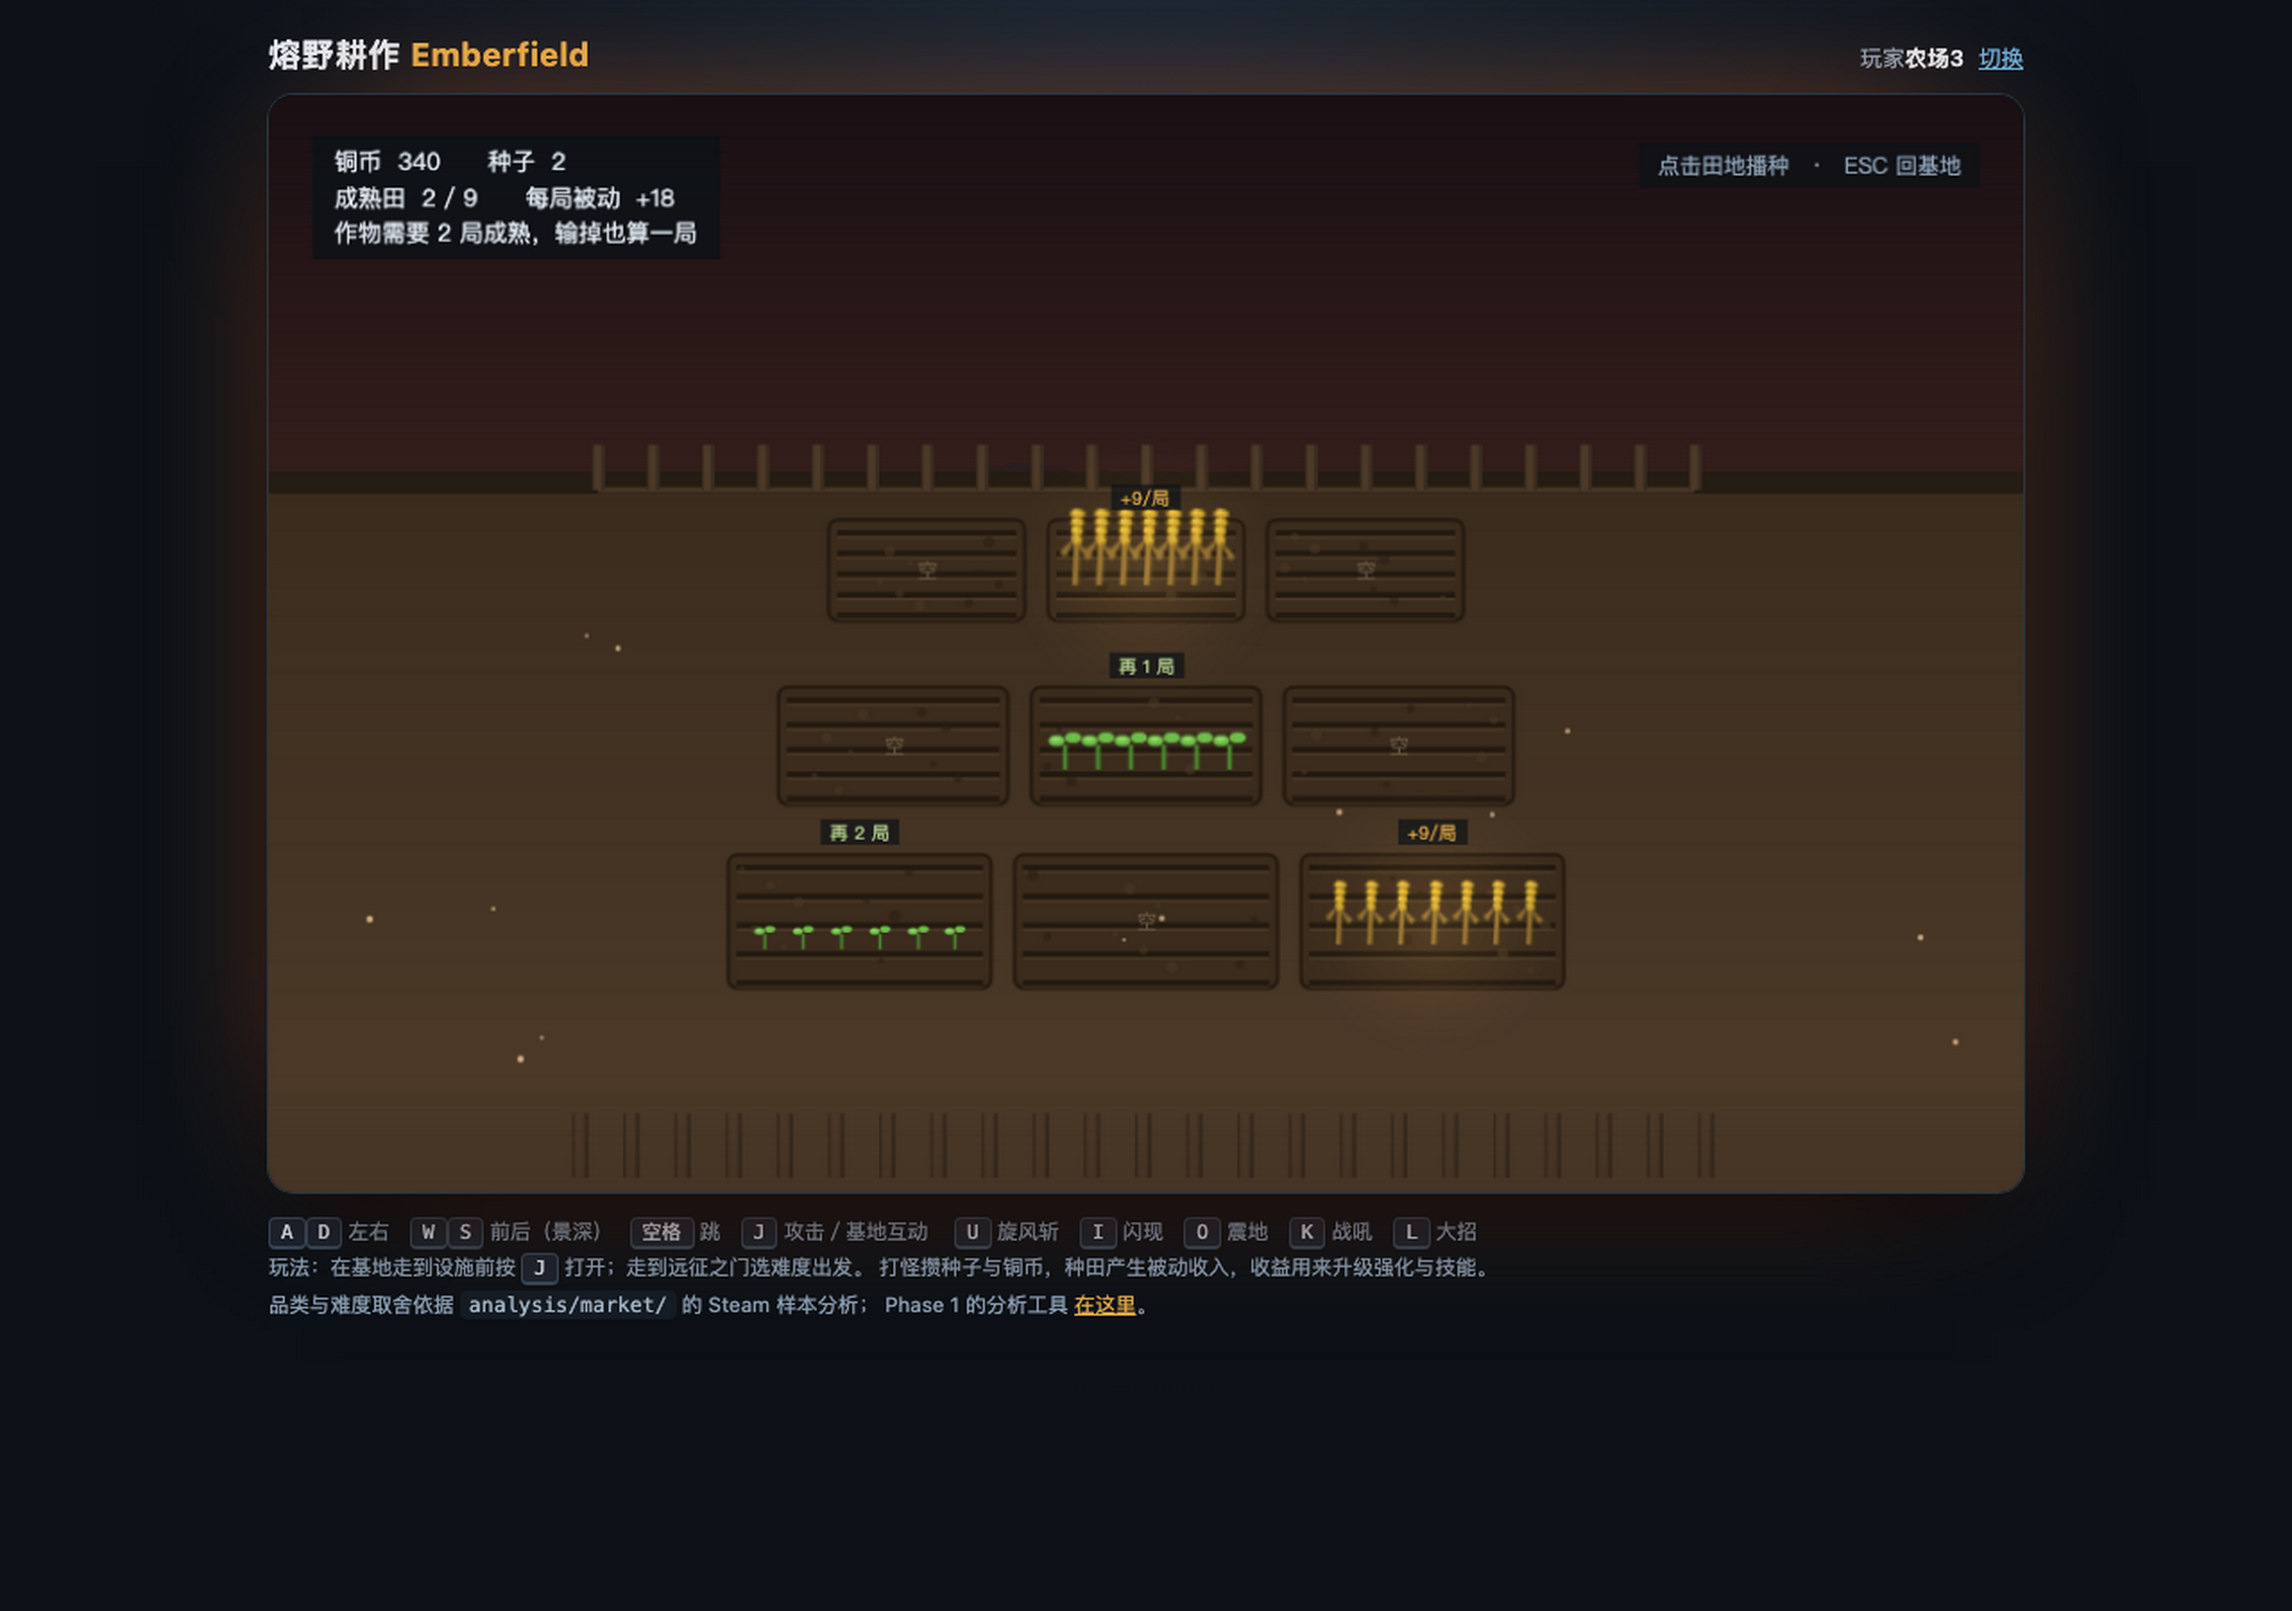
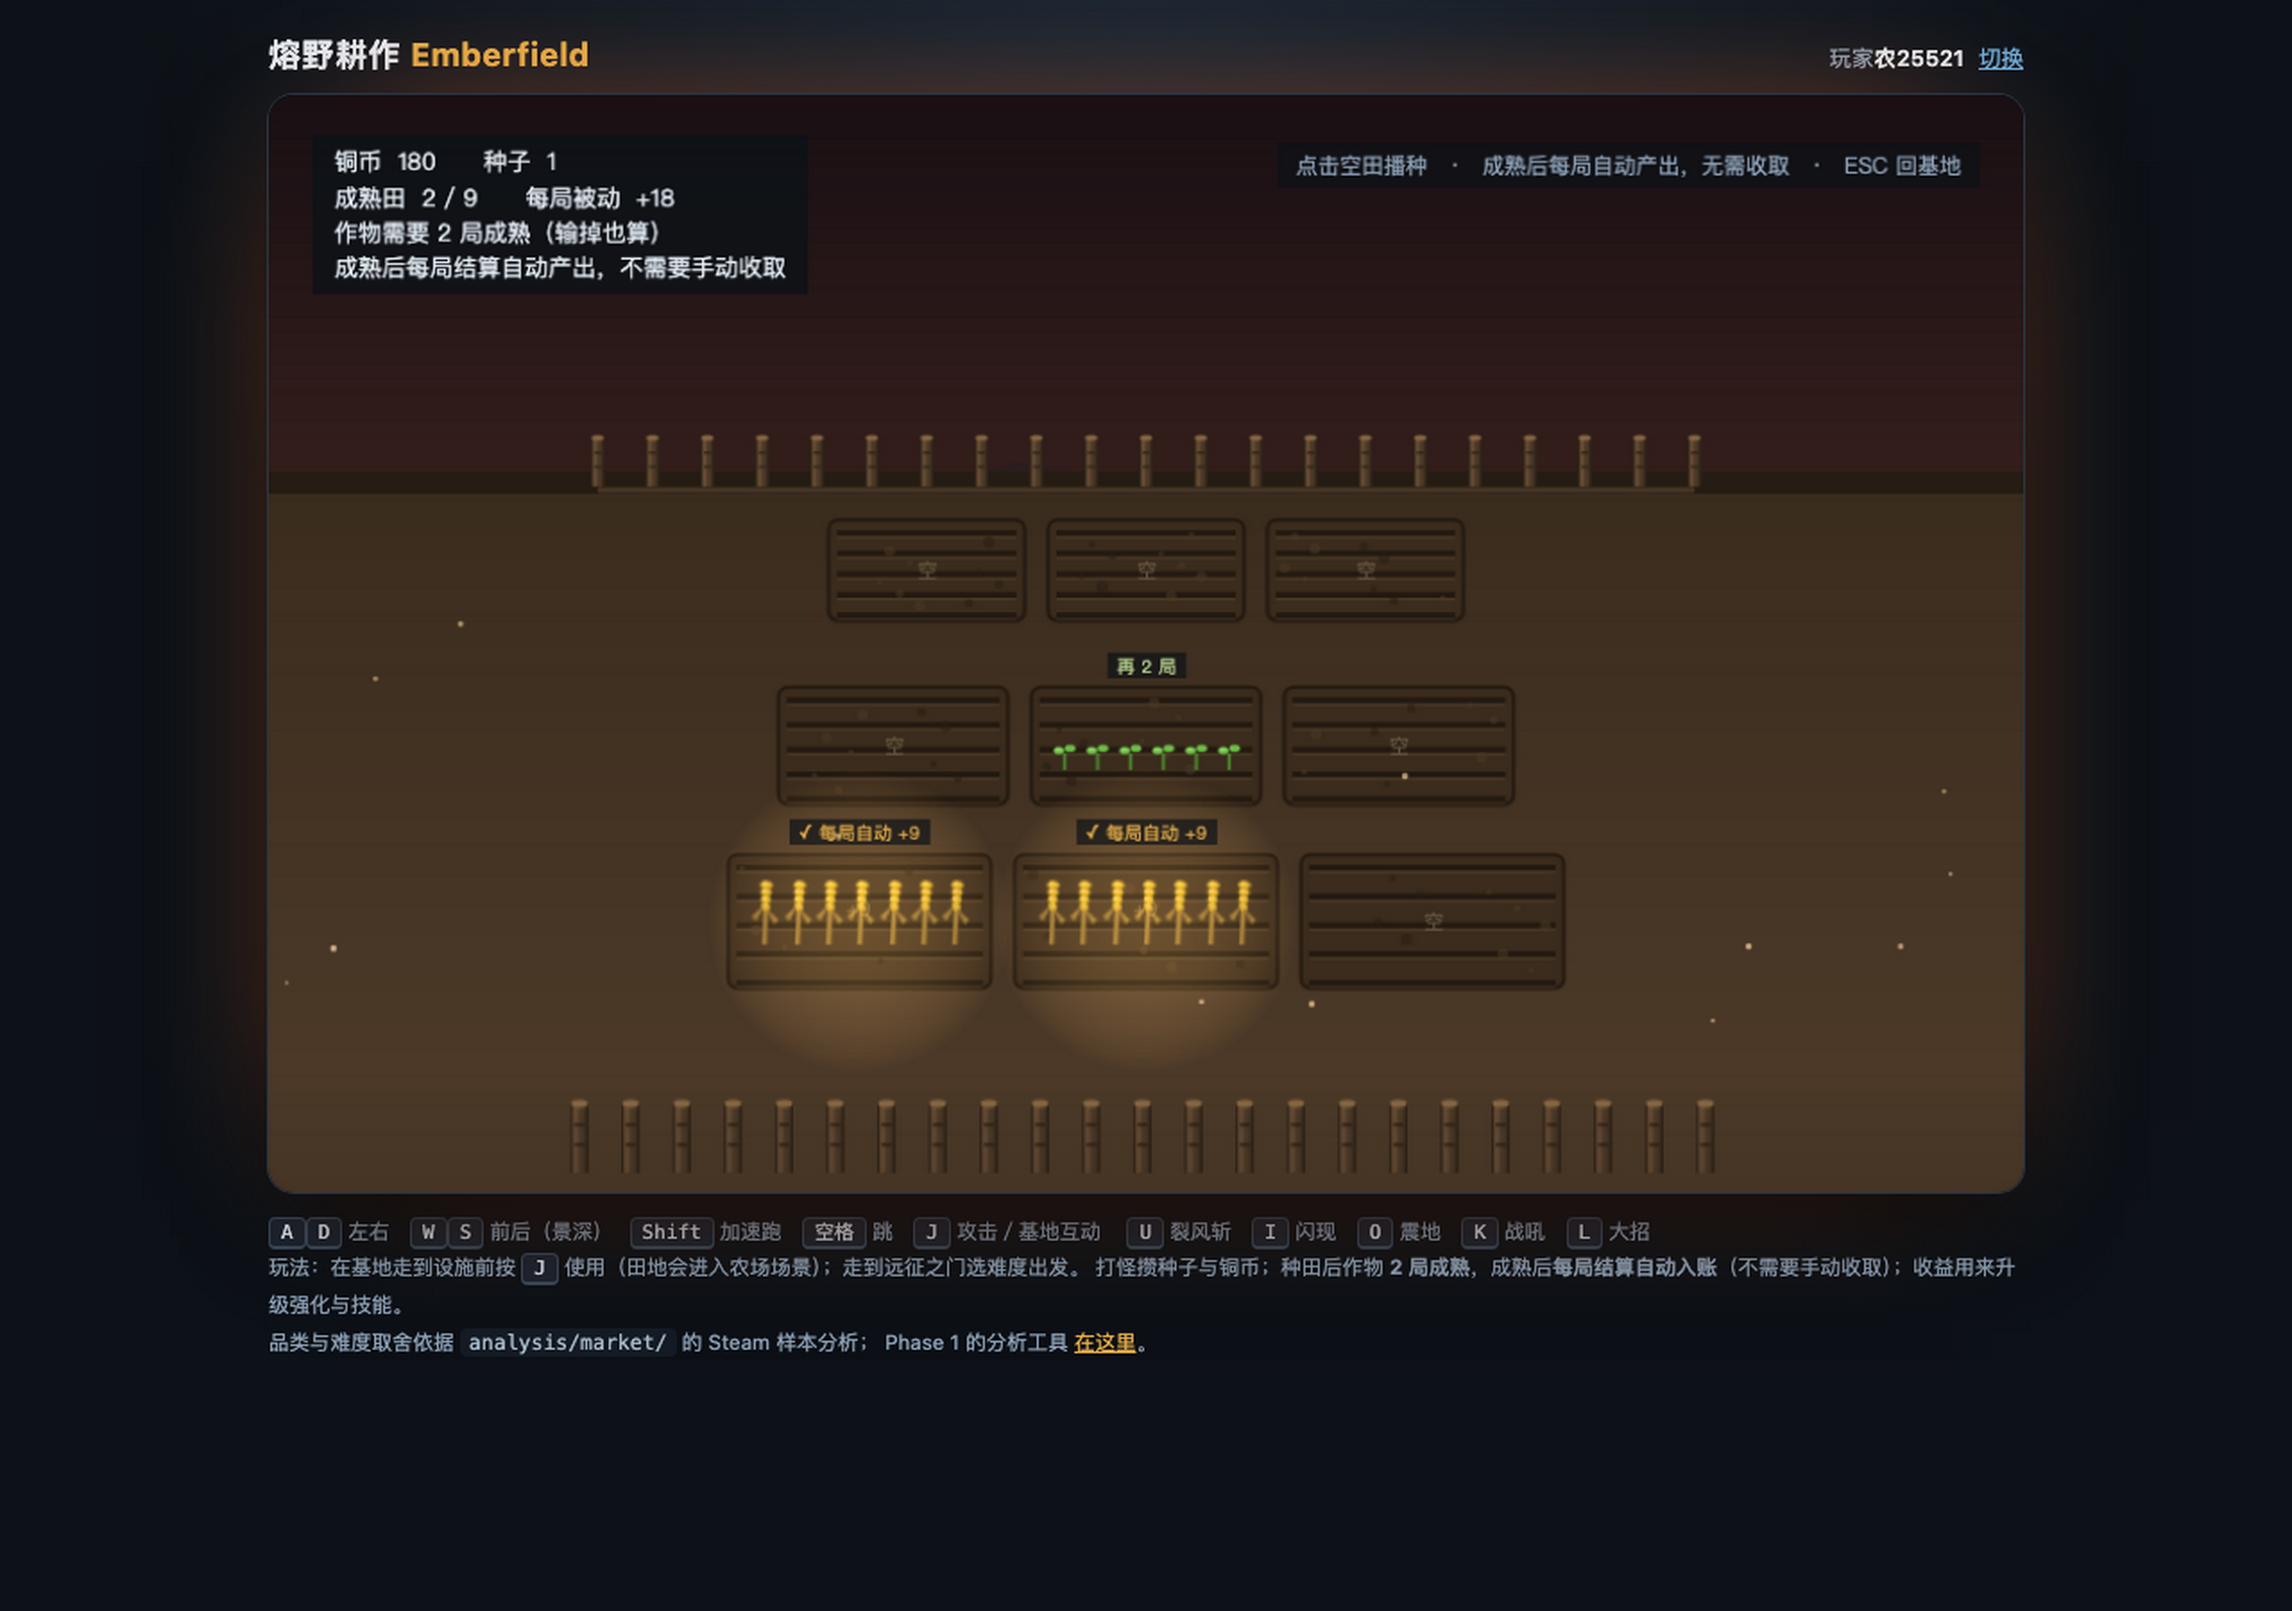
fix: mature crops looked unharvestable because nothing said they harvest themselves
Reported as 'the seed matured and now I cannot collect it'. Investigation first, and the
logic turned out to be correct: a mature plot pays yieldPerPlot coins at the end of every run
from endRun, and there is no collect step by design. What was broken was the interface.

Clicking a mature plot called plant(), which returned 'this plot is not empty', and that was
the only feedback the player got. Nothing on screen said when the money arrives, and the only
response to the obvious action implied a missing feature. The player was not wrong to think
something was missing.

Twenty assertions now lock the existing behaviour before any UI change, so the automatic
payout cannot be broken by fixing its presentation: maturity after two runs, payout at run end
without a collect call, payout proportional to plot count, and payout on a lost run as well.

The interface now says what happens:
- clicking a mature plot reports that it pays automatically each run and does not need
  collecting, instead of 'not empty';
- clicking a growing plot says how many runs remain;
- mature plots are labelled 'auto +9 each run' with a drifting coin figure above them;
- the farm header, the hub station hint and the page instructions all state that mature crops
  pay at settlement and need no collection.

A pulse ring on click makes the tap visible, because previously a click on a non-empty plot
produced no visual response at all, which is part of why it read as broken.

344 assertions across six checks.

diff --git a/game/app.js b/game/app.js
@@ -1313,7 +1313,7 @@
       }).setDepth(900);
       this.refreshHud();
 
-      this.add.text(W - 24, 26, '点击田地播种　·　ESC 回基地', {
+      this.add.text(W - 24, 26, '点击空田播种　·　成熟后每局自动产出，无需收取　·　ESC 回基地', {
         fontSize: '12px', color: '#8fa3b8', fontFamily: 'sans-serif',
         backgroundColor: '#0b1117aa', padding: { x: 10, y: 6 },
       }).setOrigin(1, 0).setDepth(900);
@@ -1405,12 +1405,24 @@
           const glow = this.add.image(geo.cx, geo.cy, 'glow')
             .setScale(1.5).setAlpha(0.34).setBlendMode(Phaser.BlendModes.ADD);
           this.cropLayer.add(glow);
+          // 标签写清是"自动"，并加一个金币小图标暗示入账
           const label = this.add.text(geo.cx, geo.cy - geo.h / 2 - 4,
-            '+' + C.FARM.yieldPerPlot + '/局', {
+            '✓ 每局自动 +' + C.FARM.yieldPerPlot, {
               fontSize: '10px', color: '#e8b04b', fontFamily: 'sans-serif',
               backgroundColor: '#0b1117aa', padding: { x: 5, y: 2 },
             }).setOrigin(0.5, 1);
           this.hintLayer.add(label);
+
+          // 飘起的金币数字：成熟田"正在产出"的持续提示
+          const coin = this.add.text(geo.cx, geo.cy + geo.h * 0.1,
+            '+' + C.FARM.yieldPerPlot, {
+              fontSize: '11px', color: '#ffd166', fontFamily: 'sans-serif',
+            }).setOrigin(0.5).setAlpha(0.9);
+          this.cropLayer.add(coin);
+          this.tweens.add({
+            targets: coin, y: coin.y - 16, alpha: 0.25,
+            duration: 1500, yoyo: true, repeat: -1, ease: 'Sine.inOut',
+          });
         } else {
           const label = this.add.text(geo.cx, geo.cy, '空', {
             fontSize: '11px', color: '#6b5a45', fontFamily: 'sans-serif',
@@ -1421,6 +1433,24 @@
     }
 
     tryPlant(idx) {
+      const plot = this.state.farm.plots[idx];
+
+      // 成熟田不需要"收取"：它在每局结束时自动按块数产出。
+      // 之前点它会走 plant() 并弹出"这块田不是空的" —— 玩家由此以为
+      // 有个"收取"动作被漏掉了。现在按状态给出正确的说明。
+      if (plot && plot.state === 'mature') {
+        this.flash('已成熟，每局结算自动产出 ' + C.FARM.yieldPerPlot +
+                   ' 铜币，不需要收取', true);
+        this.pulsePlot(idx);
+        return;
+      }
+      if (plot && plot.state === 'growing') {
+        const left = C.FARM.runsToMature - plot.growth;
+        this.flash('生长中，再下地 ' + left + ' 局成熟', false);
+        this.pulsePlot(idx);
+        return;
+      }
+
       const r = L.plant(this.state, idx);
       if (!r.ok) {
         this.flash(r.reason, false);
@@ -1431,6 +1461,18 @@
       this.redrawField();
       this.refreshHud();
       this.flash('已播种', true);
+    }
+
+    /** 点田时的轻微反馈，让"点到了"看得见。 */
+    pulsePlot(idx) {
+      const geo = this.plotGeo[idx];
+      if (!geo) return;
+      const mark = this.add.ellipse(geo.cx, geo.cy, geo.w, geo.h)
+        .setStrokeStyle(2.5, 0xffe07a, 0.9).setDepth(26);
+      this.tweens.add({
+        targets: mark, scaleX: 1.12, scaleY: 1.12, alpha: 0,
+        duration: 420, onComplete: () => mark.destroy(),
+      });
     }
 
     /**
@@ -1496,7 +1538,8 @@
       this.hudText.setText(
         '铜币  ' + s.meta.coins + '　　种子  ' + s.meta.seeds + '\n' +
         '成熟田  ' + L.maturePlots(s) + ' / 9　　每局被动  +' + L.passiveIncome(s) + '\n' +
-        '作物需要 ' + C.FARM.runsToMature + ' 局成熟，输掉也算一局'
+        '作物需要 ' + C.FARM.runsToMature + ' 局成熟（输掉也算）\n' +
+        '成熟后每局结算自动产出，不需要手动收取'
       );
     }
 

diff --git a/tests/test_game_logic.js b/tests/test_game_logic.js
@@ -780,6 +780,50 @@ section('19. 掉落物作为实体：有落点、会弹出、会沉降');
      xs.map((v) => v.toFixed(0)).join(','));
 }
 
+// ---------------------------------------------------------------- 20. 成熟田的产出方式
+section('20. 成熟田自动产出，不需要手动收取');
+{
+  // 玩家反馈"种子成熟了没法收取"。查下来逻辑是对的：
+  // 成熟田在**每局结束时**自动产出，界面上没有任何"收取"动作。
+  // 问题是界面没表达清楚，点成熟田还会弹"这块田不是空的" —— 误导。
+  // 这一节先把既有行为锁住，改界面时才不会把正确的逻辑一起改坏。
+  const s = L.createState(31);
+  s.meta.seeds = 3;
+
+  // 种一块、跑两局让它成熟
+  ok(L.plant(s, 0).ok, '种下第一块田');
+  L.startRun(s, 'grass'); L.endRun(s, true);
+  eq(L.maturePlots(s), 0, '一局后尚未成熟');
+  L.startRun(s, 'grass'); L.endRun(s, true);
+  eq(L.maturePlots(s), 1, '两局后成熟');
+
+  // 成熟后：每局结束自动按块数产出，不需要任何"收取"调用
+  const before = s.meta.coins;
+  L.startRun(s, 'grass'); L.endRun(s, true);
+  const gained = s.meta.coins - before;
+  ok(gained >= C.FARM.yieldPerPlot,
+     '成熟田在每局结束时自动产出，无需手动收取', `本局 +${gained}`);
+
+  // 产出随成熟块数线性增长
+  const s2 = L.createState(32);
+  s2.meta.seeds = 9;
+  for (let i = 0; i < 3; i++) L.plant(s2, i);
+  L.startRun(s2, 'grass'); L.endRun(s2, true);
+  L.startRun(s2, 'grass'); L.endRun(s2, true);
+  eq(L.maturePlots(s2), 3, '三块田都成熟');
+  eq(L.passiveIncome(s2), 3 * C.FARM.yieldPerPlot, '被动收入 = 块数 × 每块产出');
+  const b2 = s2.meta.coins;
+  L.startRun(s2, 'grass'); L.endRun(s2, false);      // 输掉也照常产出
+  ok(s2.meta.coins - b2 >= 3 * C.FARM.yieldPerPlot,
+     '输掉的那一局同样产出（作物按局计龄，不按胜负）', s2.meta.coins - b2);
+
+  // 点成熟田应当给出**说明**而不是"这块田不是空的"
+  const r = L.plant(s, 0);
+  ok(!r.ok, '成熟田不能再次播种');
+  ok(r.reason.indexOf('不是空的') >= 0, '（既有）plant 的拒绝理由就是这个字符串',
+     r.reason);
+}
+
 // ---------------------------------------------------------------- 汇总
 console.log('\n' + '='.repeat(56));
 if (fail === 0) {

diff --git a/game/index.html b/game/index.html
@@ -210,7 +210,7 @@
   <kbd>U</kbd> 裂风斩　<kbd>I</kbd> 闪现　<kbd>O</kbd> 震地　<kbd>K</kbd> 战吼　<kbd>L</kbd> 大招
   <br>
   玩法：在基地走到设施前按 <kbd>J</kbd> 使用（田地会进入农场场景）；走到远征之门选难度出发。
-  打怪攒种子与铜币，种田产生被动收入，收益用来升级强化与技能。
+  打怪攒种子与铜币；种田后作物 <b>2 局成熟</b>，成熟后<b>每局结算自动入账</b>（不需要手动收取）；收益用来升级强化与技能。
   <br>
   品类与难度取舍依据 <code>analysis/market/</code> 的 Steam 样本分析；
   Phase 1 的分析工具 <a href="phase1/">在这里</a>。

diff --git a/game/hub.js b/game/hub.js
@@ -30,7 +30,7 @@
    * reach 是触发半径：玩家 x 落在 [x-reach, x+reach] 内即可交互。
    */
   const ZONES = [
-    { id: 'field', name: '田地', hint: '播种 / 查看作物',
+    { id: 'field', name: '田地', hint: '播种 · 成熟后自动产出',
       x: 150, reach: 95, art: 'field' },
     { id: 'anvil', name: '铁匠铺', hint: '强化攻击、生命、移速',
       x: 400, reach: 80, art: 'anvil' },
